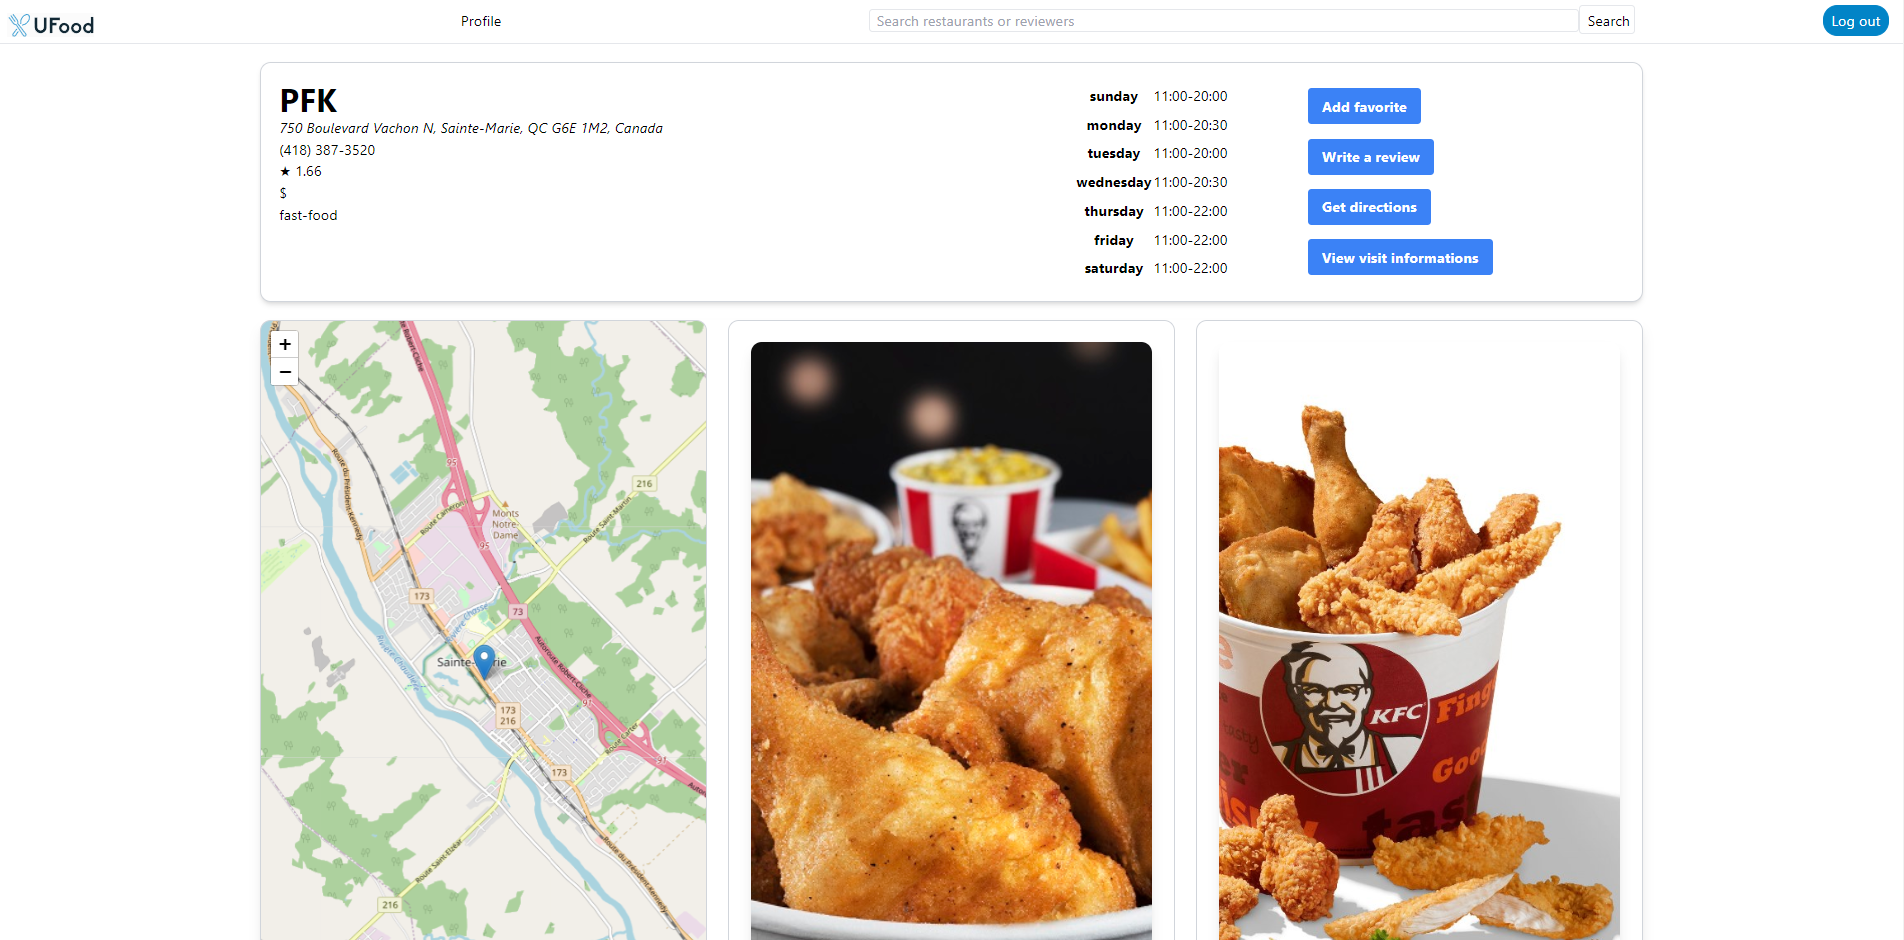
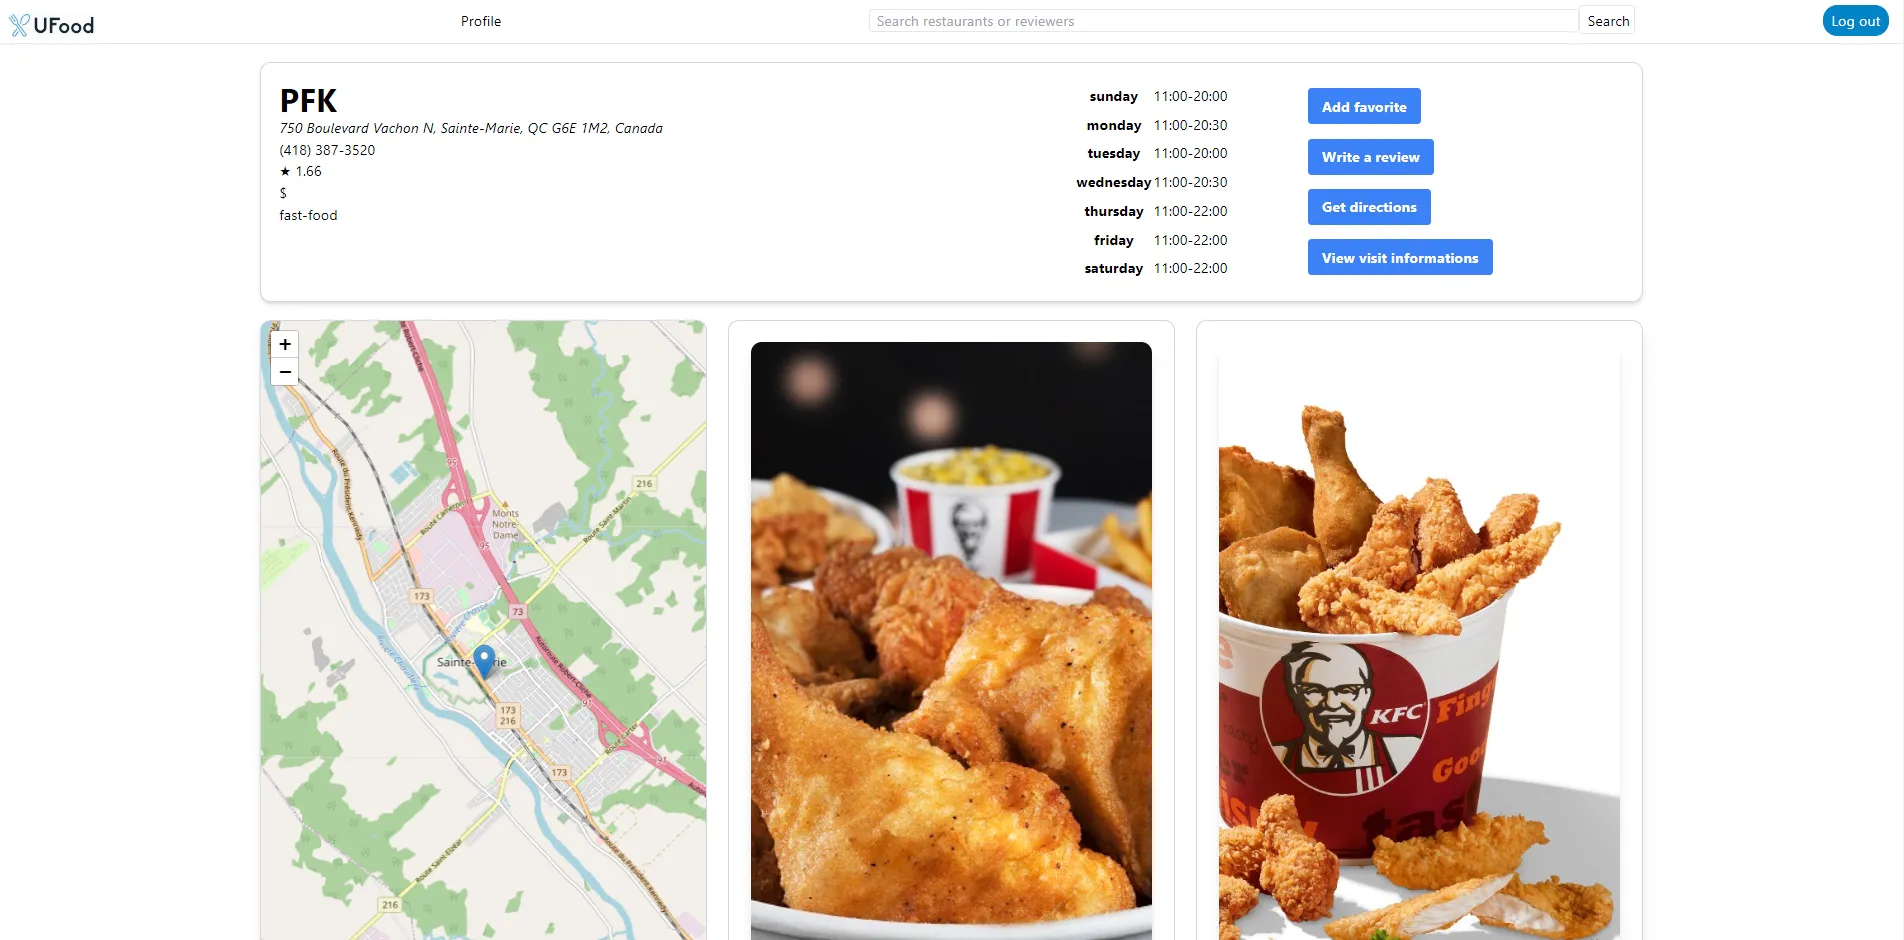
optimized loading

diff --git a/index.html b/index.html
@@ -3,10 +3,19 @@
   <head>
     <meta charset="UTF-8" />
     <meta name="viewport" content="width=device-width, initial-scale=1.0" />
+    <meta name="description" content="My portfolio website" />
+    <meta name="author" content="Hugo Plante" />
     <link
-      href="https://fonts.googleapis.com/css?family=Montserrat"
+      href="https://fonts.googleapis.com/css?family=Montserrat&display=swap"
       rel="stylesheet"
     />
+    <noscript>
+      <link
+        href="https://fonts.googleapis.com/css?family=Montserrat&display=swap"
+        rel="stylesheet"
+        type="text/css"
+      />
+    </noscript>
     <title>Mon portfolio</title>
   </head>
   <body>

diff --git a/src/components/Contact.tsx b/src/components/Contact.tsx
@@ -3,14 +3,13 @@ import Section from "./Section";
 
 const Contact = () => {
   return (
-    <Section id="contact" title="Me contacter" background={"main"}>
+    <Section id="contact" title="Me contacter" background={"variant"}>
       <div>
         <p>
           Si vous avez une opportunité à me proposer, n'hésitez pas à me
           rejoindre soit par linkedIn ou par courriel à l'addresse suivante:
           hugoplante@hotmail.fr
         </p>
-        
       </div>
     </Section>
   );

diff --git a/src/components/Projects/MyPorfolio.tsx b/src/components/Projects/MyPorfolio.tsx
@@ -3,7 +3,7 @@ import html5 from "/src/assets/images/skills/html.png";
 import css3 from "/src/assets/images/skills/css3.png";
 import typescript from "/src/assets/images/skills/typescript.png";
 import tailwind from "/src/assets/images/skills/tailwind.png";
-import porfolioUrl from "../../assets/images/projects/porfolio.png";
+import porfolioUrl from "../../assets/images/projects/porfolio.webp";
 
 const MyPorfolio = () => {
   return (
